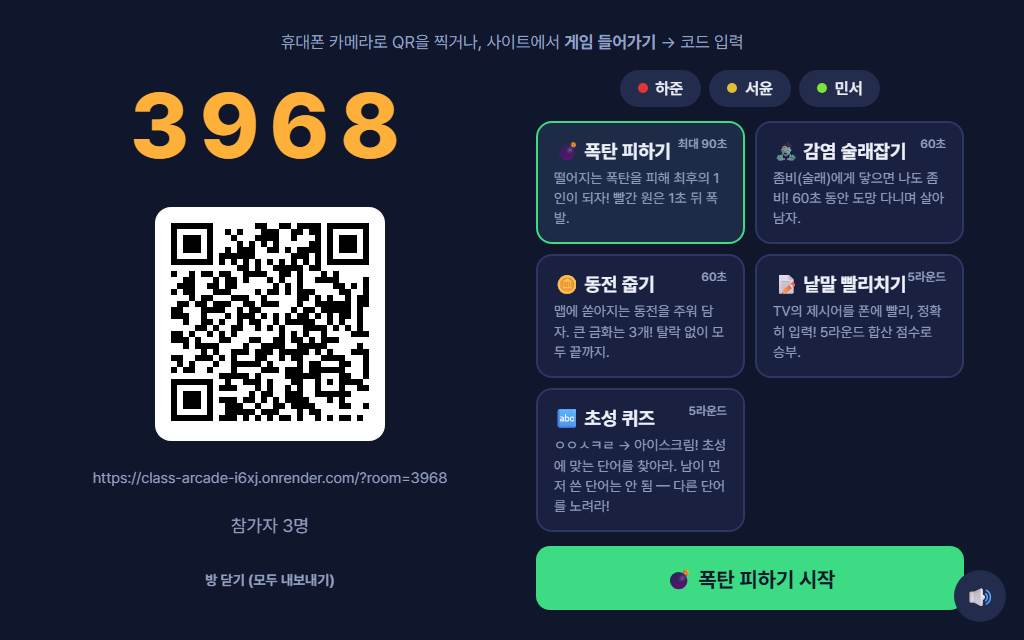
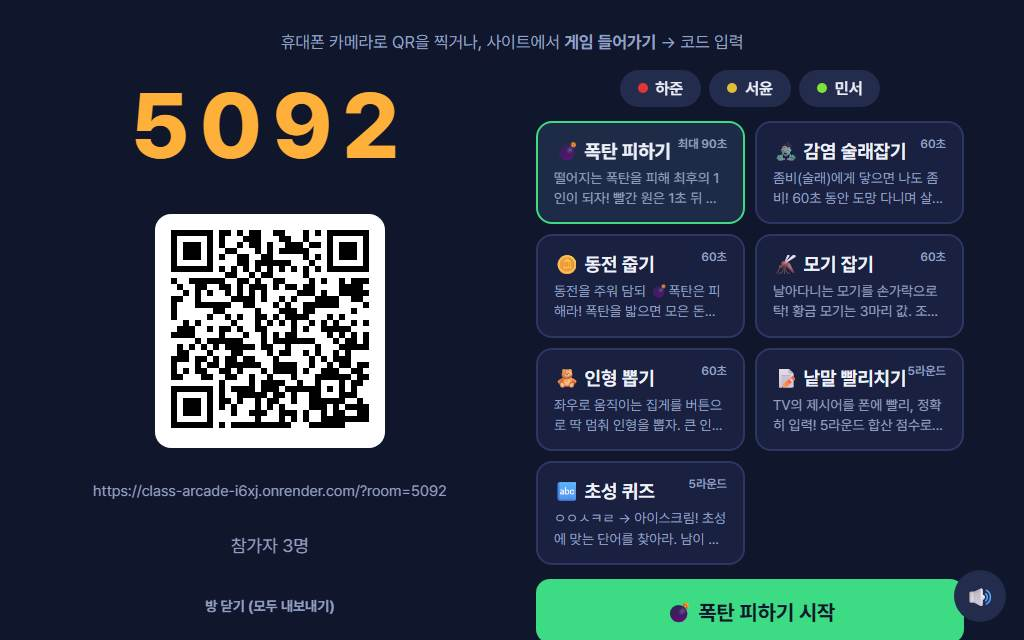
Class Arcade: 게임 7종으로 설명·미리보기 갱신

diff --git a/index.html b/index.html
@@ -821,7 +821,7 @@ const apps = [
   { name:'경북교육청 서식 꾸러미',        desc:'경북교육청 행정 서식 1,175종을 검색·미리보기·다운로드할 수 있는 서식 아카이브',            cat:'기타 자료',  badge:'doc',    date:'26.07.26', url:'https://kimju1416.github.io/gbe-seosik' },
   { name:'AI 사용량 위젯', shot:'aiwidget',              desc:'Claude·Codex·Gemini 세 가지 AI 서비스의 사용량을 바탕화면에서 한눈에 확인하는 윈도우 전용 데스크톱 위젯. exe 설치 후 바로 사용 가능', cat:'기타 자료', badge:'exe',    date:'26.07.26', url:'https://github.com/kimju1416/ai-usage-widget/releases' },
   { name:'공무원·교사 연금 비교 시뮬레이터', desc:'공무원연금과 국민연금을 조건별로 비교해 예상 수령액·납입액을 시뮬레이션하는 교사 전용 계산기', cat:'기타 자료', badge:'doc',    date:'26.07.26', url:'https://kimju1416.github.io/pension/' },
-  { name:'Class Arcade (교실 아케이드)', shot:'arcade', sub:'↳ 신규 · 실시간 멀티플레이 게임 5종', desc:'TV에 뜬 QR을 학생들이 폰으로 찍고 한 방에 모여 다 같이 즐기는 실시간 학급 게임. 폭탄 피하기·감염 술래잡기·동전 줍기·낱말 빨리치기·초성 퀴즈 5종, 한 반 30명까지 동시 참여. 설치·로그인 없이 접속만 하면 시작', cat:'기타 자료', badge:'doc', date:'26.08.10', url:'https://class-arcade-i6xj.onrender.com/' },
+  { name:'Class Arcade (교실 아케이드)', shot:'arcade', sub:'↳ 신규 · 실시간 멀티플레이 게임 7종', desc:'TV에 뜬 QR을 학생들이 폰으로 찍고 한 방에 모여 다 같이 즐기는 실시간 학급 게임. 폭탄 피하기·감염 술래잡기·동전 줍기·모기 잡기·인형 뽑기·낱말 빨리치기·초성 퀴즈 7종, 한 반 30명까지 동시 참여. 설치·로그인 없이 접속만 하면 시작', cat:'기타 자료', badge:'doc', date:'26.08.10', url:'https://class-arcade-i6xj.onrender.com/' },
   // 8. A/S 챗봇
   { name:'kimju.zip A/S 챗봇',          desc:'kimju.zip 앱 사용 중 오류나 궁금한 점을 AI 챗봇에게 바로 물어볼 수 있는 지원 창구',   cat:'A/S',        badge:'as',     date:'26.04.12', url:'https://kimju1416.github.io/kimju.zip' },
 ];
